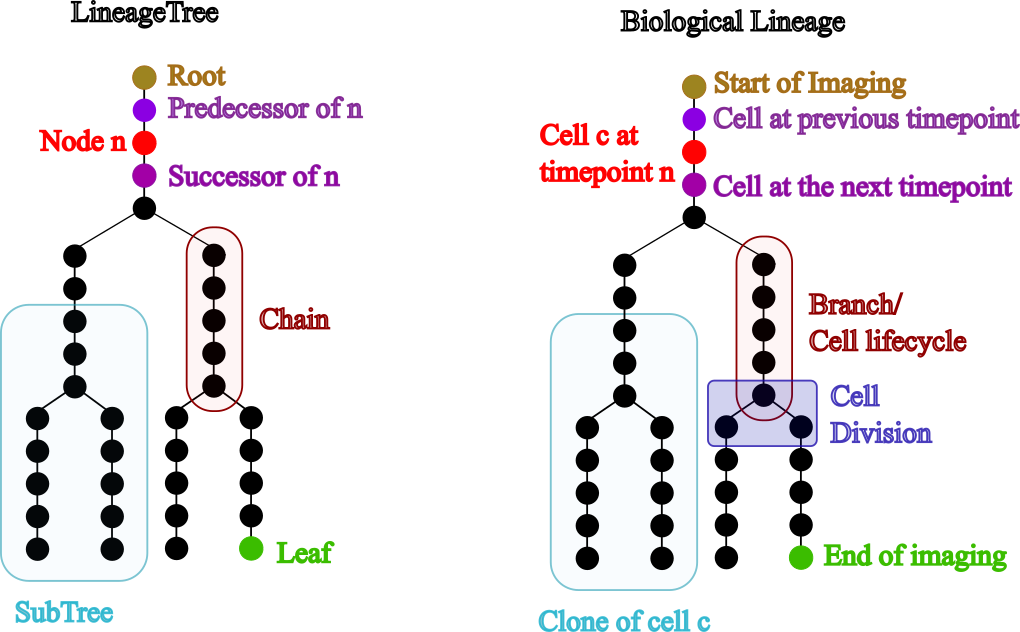
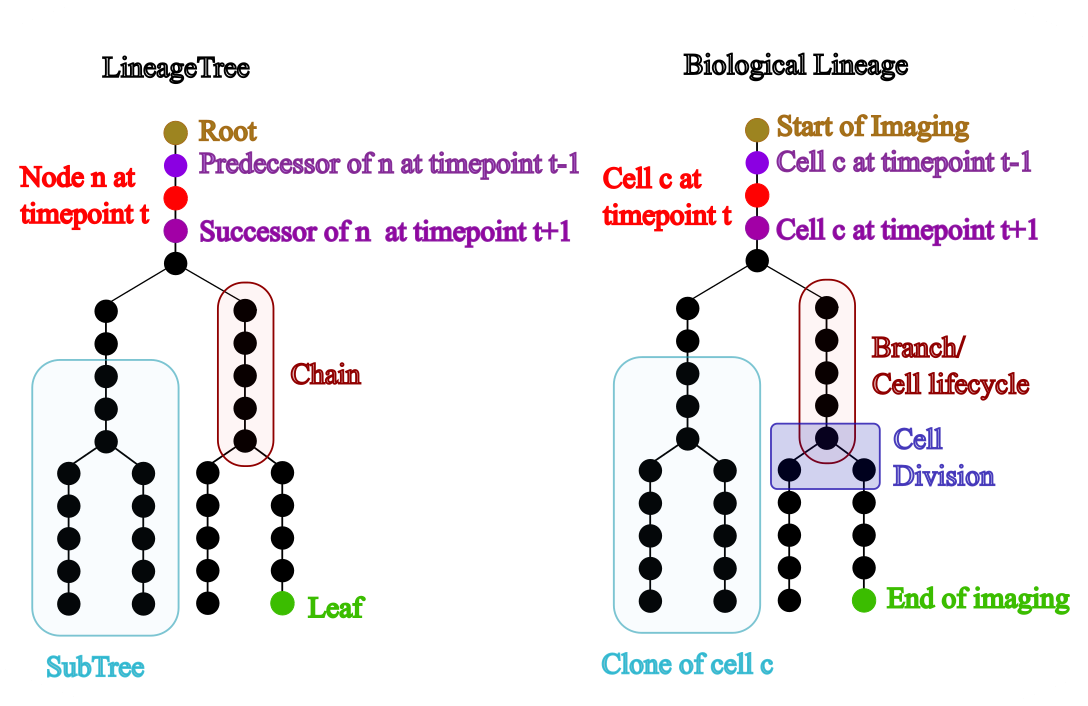
fix docs adding api

Changed region(s): [[0.0, 0.0, 1.0, 1.0]]

diff --git a/src/lineagetree/_io/__init__.py b/src/lineagetree/_io/__init__.py
@@ -1,6 +1,14 @@
-__version__ = "3.0.4"
-from .lineage_tree import LineageTree
-from ._io._loaders import (
+"""
+I/O subpackage for LineageTree.
+
+Contains functions for reading and writing lineage data in various formats.
+"""
+
+from . import _loaders
+from . import _writers
+
+# Optionally, re-export the key functions for easier import
+from ._loaders import (
     read_from_ASTEC,
     read_from_binary,
     read_from_bmf,
@@ -12,24 +20,19 @@ from ._io._loaders import (
     read_from_txt_for_celegans,
     read_from_txt_for_celegans_BAO,
     read_from_txt_for_celegans_CAO,
-    LOADERS,
 )
 
-from .lineage_tree_manager import LineageTreeManager
-
-__all__ = (
-    "LineageTree",
-    "LineageTreeManager",
-    "read_from_tgmm_xml",
-    "read_from_txt_for_celegans_BAO",
+__all__ = [
+    "_loaders",
     "read_from_ASTEC",
     "read_from_binary",
     "read_from_bmf",
     "read_from_csv",
     "read_from_mamut_xml",
-    "read_from_mastodon_csv",
     "read_from_mastodon",
+    "read_from_mastodon_csv",
+    "read_from_tgmm_xml",
     "read_from_txt_for_celegans",
+    "read_from_txt_for_celegans_BAO",
     "read_from_txt_for_celegans_CAO",
-    "LOADERS",
-)
+]

diff --git a/src/lineagetree/measure/__init__.py b/src/lineagetree/measure/__init__.py
@@ -1,0 +1,23 @@
+from .dynamic_time_warping import calculate_dtw
+from .uted import (
+    clear_comparisons,
+    unordered_tree_edit_distance,
+    unordered_tree_edit_distances_at_time_t,
+    plot_tree_distance_graphs,
+    labelled_mappings,
+)
+from .spatial import (
+    compute_k_nearest_neighbours,
+    compute_spatial_density,
+    compute_spatial_edges,
+    get_gabriel_graph,
+)
+
+
+__all__ = (
+    "clear_comparisons",
+    "unordered_tree_edit_distance",
+    "unordered_tree_edit_distances_at_time_t",
+    "plot_tree_distance_graphs",
+    "labelled_mappings",
+)

diff --git a/src/lineagetree/measure/uted.py b/src/lineagetree/measure/uted.py
@@ -138,6 +138,13 @@ def __calculate_distance_of_sub_tree(
 
 
 def clear_comparisons(lT: LineageTree):
+    """Clears the comparisons saved on the LineageTree object.
+
+    Parameters
+    ----------
+    lT : LineageTree
+        The LineageTree object
+    """
     lT._comparisons.clear()
 
 

diff --git a/docs/glossary.md b/docs/glossary.md
@@ -1,9 +1,8 @@
 
 This tool may interest individuals with and without a background in computer science, so all users need to become familiar with the nomenclature used by LineageTree. To that end, this glossary defines the terms used throughout the project.
 
-- ### Trees
-
- A tree is a hierarchical acyclic graph that contains nodes and edges, lineageTree works with at most 2 successors for one node. To create a demo tree the user can call
+- ### Tree Graphs
+ A tree graph is a hierarchical acyclic graph that contains nodes and edges, **LineageTree is a tree graph** that has at most 2 successors for one node. To create a demo tree the user can call
 
 ```python
 from lineagetree import LineageTree
@@ -11,54 +10,45 @@ lT = LineageTree(successors= {i:[i+1] for i in range(10)})
 ```
 
  ![Image for glossary](./images/glossary_image.png)
-> The differences between a biological lineage and a LineageTree lineage
+> The differences between a biological lineage and a LineageTree.
 
 - ### Nodes
-
- The smallest part of a tree, a point that may or may not connect to others. The set of all the nodes may be accessed by ```lT.nodes```
+ The **smallest part of a LineageTree**, a point that may or may not connect to others. The set of all the nodes may be accessed by ```lT.nodes```
 
 - ### Edges
-
- The lTect that connects 2 nodes, in the case of the tree its also directed (goes one way). The edges may be accessed throug ```lT.edges```
+ The object that **connects 2 nodes**, in the case of the tree its also directed (goes one way). The edges may be accessed through ```lT.edges```
 
 - ### Successors
-
- The successor of a node n is a node connected with an edge to the node n that exists one level (timepoint) lower than n. The immutable dictionary (MappingProxy) of all the successors may be accessed by ```lT.successor```
+ The successor of a **node n in timepoint t is the node n' in timepoint t+1** and is connected to the node n. The immutable dictionary (MappingProxy) of all the successors may be accessed by ```lT.successor```
 
 - ### Predecessors
-
- The predecessor of a node n is a node connected to the node that exists one time point higher than n. The immutable dictionary (MappingProxy) of all the predecessors may be accessed by ```lT.predecessor```
+ The predecessor of a **node n in timepoint t is the node n' in timepoint t-1** and is connected to the node n. The immutable dictionary (MappingProxy) of all the predecessors may be accessed by ```lT.predecessor```
 
 - ### Roots
-
- The root of a tree is a node that has no predecessors. In the case of lineageTree the root has an empty tuple as predecessor. LineageTree allows for many roots to exist in the same file. The set of roots may be accessed by using ```lT.roots```
+ The root of a tree is **a node that has no predecessors**. In the case of lineageTree the root has an empty tuple as predecessor. LineageTree allows for many roots to exist in the same file. The set of roots may be accessed by using ```lT.roots```
 
 - ### Leaves
-
- The leaf of a tree is a node that has no successors. In the case of lineageTree the leaf has an empty tuple as a successor. The set of leaves may be accessed through ```lT.leaves```
-
-- ### Divisions
-
- An event where one node has 2 successors instead of one. There is no direct way to access a division; however, the node that is before a division (or after) is always at the end or start of a chain (except for the cases that the chain contains a leaf or a root)
+ The leaf of a tree is **a node that has no successors**. In the case of lineageTree the leaf has an empty tuple as a successor. The set of leaves may be accessed through ```lT.leaves```
 
 - ### Chains
+ A **tree segment**, where **all nodes are between a division or root and a division or a leaf**. To access a chain that contains a specific node `n`, the user may use:``` lT.get_chain_of_node(n) ```
+ A continuous subset of a chain may be referred to as a subchain or a path, which is not a chain.
 
- A tree segment, where all nodes are between a division or root and a division or a leaf. To access a chain that contains a specific node `n`, the user may use:``` lT.get_chain_of_node(n) ```
-A continuous subset of a chain may be referred to as a subchain or a path, which is not a chain.
+- ### Divisions
+ An event where **one node has 2 successors** instead of one. There is no direct way to access a division; however, the node that is before a division (or after) is always at the end or start of a chain (except for the cases that the chain contains a leaf or a root)
 
 - ### Subtree
-
- Any segment of a tree that is also a tree. Using the function ```lT.get_sub_tree(node)``` will not provide a new lineageTree but a list of all the nodes contained inside the subtree.
+ Any segment of a tree that is also a tree. The function ```lT.get_sub_tree(node)``` will return a list of all the nodes contained inside the subtree.
 
 - ### Siblings
-
- Two nodes that have the same predecessor. Often used for chains where the first node of each chain has the same predecessor as the other one.
+ **Two nodes that have the same predecessor**. Often used for chains where the first node of each chain has the same predecessor as the other one.
 
 - ### Time
-
  The time point at which the nodes exist. This property concerns time points and is not real time.
  The immutable dictionary (MappingProxy) containing the time information for all the nodes may be accessed through ```lT.times```.
 
 - ### Time resolution
-
  How long one time point lasts, relevant only for comparisons across lineages. This attribute can be a property or inspected by ```lT.time_resolution```.
+
+#### API reference
+

diff --git a/docs/index.md b/docs/index.md
@@ -1,19 +1,24 @@
 # Welcome to LineageTree Documentation
 
-LineageTree is a Python framework specialized in cell tracking data. It supports importing standard or custom formats and comprehensive processing and comparison analysis capabilities.
+LineageTree is a Python framework specialized in analyzing cell tracking data. It supports standard or custom tracking data formats and allows comprehensive processing and pairwise distance calculation.
 
 ## Why should I use LineageTree?
 
 <p style="text-align: justify;">
 
-How does a cluster of cells become organized? Do cells move and divide randomly until an organism starts to exist? People from multiple fields have worked tirelessly to answer such questions, resulting in better microscopy techniques to image embryos developing in real time and software that allows users to track nuclei or particles inside the organisms. Many scientists have developed algorithms analyzing the positions of all these particles, however, there is a lack of software that takes time and division patterns into account. LineageTree offers out-of-the-box algorithms to compare lineage data to extract results on the similarity of lineages. It also offers a strong enough backbone for the user to build their algorithms to analyze time and spatial data. One type of lineage data analysis is lineage comparison, which can provide useful information on how variable the development of an organism is, or extract information on fate gain or loss, or check for symmetric lineages in one organism. A napari plugin called [ReLAX](http://127.0.0.1:8000/). accompanies this framework, where the user can explore a digital clone of the embryo on both spatial and image data (4D 3D+time), label different lineages, and perform systematic comparison analysis on imported lineages.
-Using LineageTree the user can:
+How does a cluster of cells become organized? Do cells move and divide randomly until an organism starts to exist? People from multiple fields have worked tirelessly to answer such questions, resulting in better microscopy techniques to image embryos developing in real time and software that allows users to track nuclei or particles inside the organisms. Many scientists have developed algorithms analyzing the positions of all these particles, however, there is a lack of software that takes time and division patterns into account. LineageTree offers out-of-the-box algorithms to compare lineage data to extract results on the similarity of lineages. It also offers a strong enough backbone for the user to build their algorithms to analyze time and spatial data.
 </p>
+<!-- <p style="text-align: justify;"> -->
 
-- Import any tracking format (link to loaders)
-- Perform analysis on the data ( link to tree_styles) (maybe talk a bit about the spatial algorithms)?
-- Perform unordered tree edit distance analysis using different heuristics (tree_Styles)
-- Visualize lineages imported (plot_node, plot_lineages)
+One type of lineage data analysis is lineage comparison, which can provide useful information on how variable the development of an organism is, or extract information on fate gain or loss, or check for symmetric lineages in one organism. A napari plugin called [ReLAX](https://guignardlab.github.io/napari-relax/). accompanies this framework, where the user can explore a digital clone of the embryo on both spatial and temporal data, label different lineages, and perform systematic comparison analysis on imported lineages.
+<!-- </p> -->
+
+Using LineageTree the user can:
+
+- [Import any tracking format](./loaders.md)
+- Perform spatial analysis on the data
+- Perform [unordered tree edit distance analysis](./uted.md) using different heuristics 
+- [Visualize lineages](./viz.md) imported
 
 ## Quick Installation
 

diff --git a/docs/uted.md b/docs/uted.md
@@ -124,14 +124,52 @@ This section is focused on showcasing the advantages and disadvantages of the tr
 
 ![synthetic_trees](./images/synthetic_trees.png)
 
-## Tree distance Graphs
+<!-- ### API reference
+
+#### :::lineagetree.measure.unordered_tree_edit_distance
+#### :::lineagetree.measure.unordered_tree_edit_distances_at_time_t
+#### :::lineagetree.measure.clear_comparisons -->
+## API reference for uted
+
+### ::: lineagetree.measure
+    options:
+      filters:
+        - "^unordered_tree_edit_distance$"
+        - "^unordered_tree_edit_distances_at_time_t$"
+        - "^clear_comparisons$"
+
+
+## Using the Matching Component of UTED
+
+UTED calculates distances between two tree graphs by matching their nodes. Extracting the matched nodes provides important information, particularly for labeled datasets. For example, when calculating the distance between two embryos, we can identify which clone or sublineage in one embryo corresponds to a clone or sublineage in the other. To support this, UTED includes functions specifically designed to find the matching between two lineages.
+
+#### API
+
+#### ::: lineagetree.measure
+    options:
+      filters:
+        - "^labelled_mappings$"
+
+
+
+### Tree distance Graphs
 
 <p style="text-align: justify;">
 
-The distance value is a very useful metric to check the similarity of two lineages, however its just a distance, it does not give you further information. A user should not only know how similar a tree is to another, but also which sublineages/subtrees are similar and which are not! Fortunately, we realized that we can extract important information during an important step of the algorithm, the matched pairs created during the mapping process and plot them into a new graph, called the tree distance graph. To produce these graphs, we color each chain that has been mapped with the value of the subtree spawned by these chains, showing a metric that can be interpreted as the quality of mapping. Such graphs can show two very significant things:
+The distance value is a useful metric for quantifying the similarity between two lineages, but it does not provide detailed information about which sublineages are similar or different. To address this, UTED generates tree distance graphs by leveraging the matched pairs produced during the mapping process.
+
+In these graphs, each matched chain is colored according to the value of its subtree, providing a visual representation of mapping quality. Tree distance graphs reveal two important aspects:
+
+- Variance: The color spectrum highlights the distances of mapped chains. Colors representing good mappings indicate low variance during development.
+
+- Gain or Loss of Function: Unmapped regions indicate lineages that exist in one tree but not the other. This may reflect biological differences, such as the emergence or loss of a lineage, or it may point to data quality issues.
 </p>
-- Variance: Such graphs will use a spectrum of colors to show the distances that are mapped and how well their mapping is, so colors that correspond to the good mapping indicate small variance during development.
+![add_an_example](./images/image39151.png)
 
-- Gain or loss of function, the unmapped regions can be interpreted as regions, where no region of one tree corresponds to the one with unmapped (of course this may also happen due to a bad dataset), which means that there is a lineage that does not exist in the other, a new lineage, the organism gained or lost a function!
 
-![add_an_example](tree_distance_graph.png)
+#### API
+
+#### ::: lineagetree.measure
+    options:
+      filters:
+        - "^plot_tree_distance_graphs$"

diff --git a/docs/loaders.md b/docs/loaders.md
@@ -1,5 +1,5 @@
 
-# Loaders
+### Premade Loaders
 
 Multiple well known formats are ready for import out of the box:
 
@@ -25,7 +25,7 @@ Other attributes that can be used to initiate a lineageTree file apart from the 
 
 - **kwargs: Any other dictionary provided during imaging can be loaded into lineageTree. The format is {unique_id: value}
 
-### Example of loading and template with **kwargs
+### Custom Loaders
 
 ```python
 
@@ -82,4 +82,6 @@ def template_load(path, name=None):
    )
 ```
 
-:::LineageTree.loaders
+### API reference for existing loaders
+
+#### ::: lineagetree._io

diff --git a/docs/viz.md b/docs/viz.md
@@ -7,3 +7,7 @@ Usually, tracked lineages contain hundreds of thousands of nodes, thus calculati
 ![viz](./images/2_trees.png)
 
 This way, the whole lineage can be plotted efficiently, even if the second graph is more representative of the truth.
+
+### API Reference
+
+#### ::: lineagetree.plot

diff --git a/docs/api.md b/docs/api.md
@@ -1,1 +1,1 @@
-:::LineageTree
+::: lineagetree.measure
